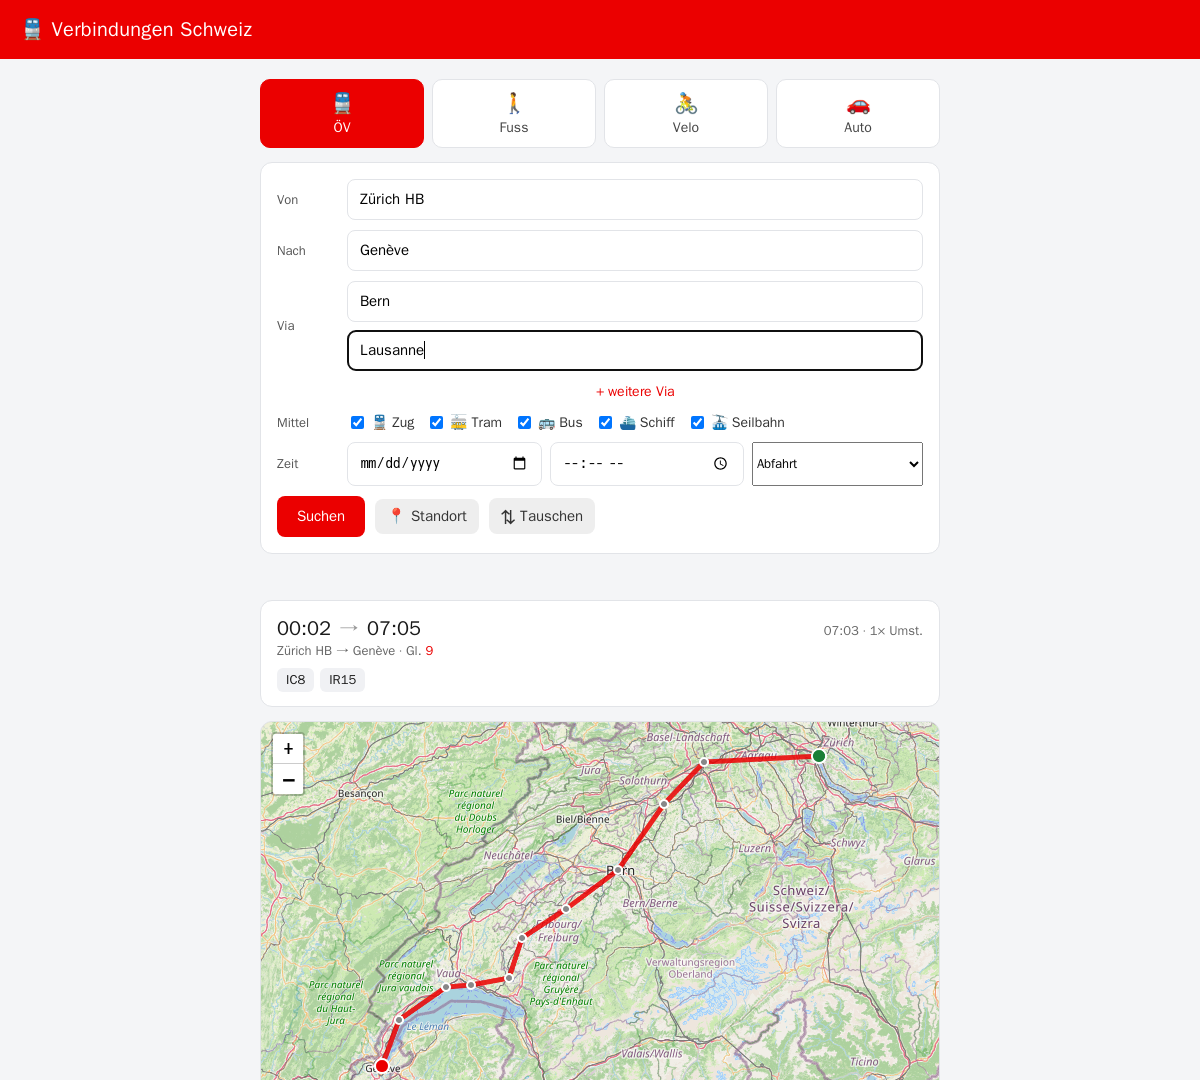
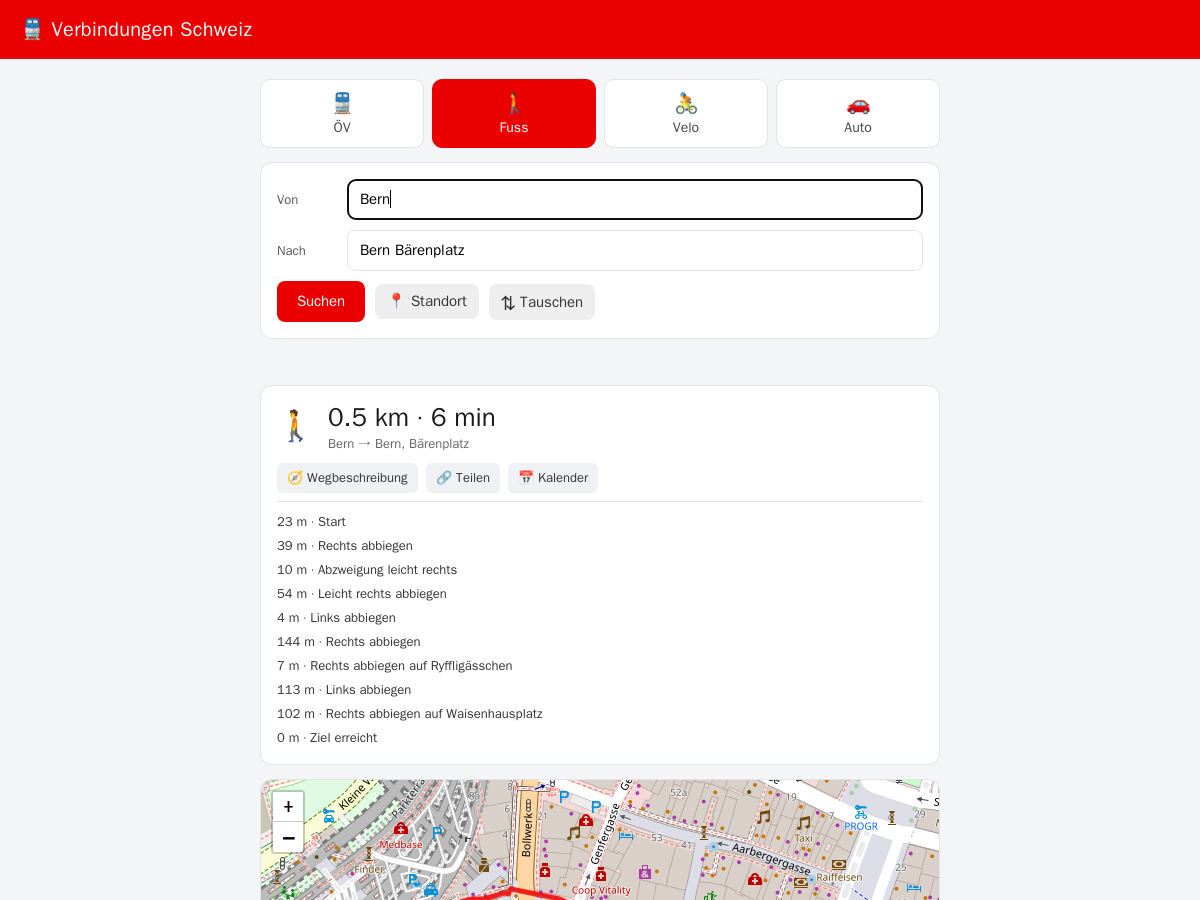
Update screenshot to show turn-by-turn directions

diff --git a/index.html b/index.html
@@ -257,7 +257,7 @@
     </div>
 
     <div class="card" id="sbb">
-      <div class="shot mid"><span class="port">:8444 · HTTPS</span><img src="shots/sbb.png" alt="Verbindungen Schweiz – ÖV-Verbindung Zürich–Genf als Plan auf der Karte"><span class="badge">Live-Ansicht</span></div>
+      <div class="shot mid"><span class="port">:8444 · HTTPS</span><img src="shots/sbb.png" alt="Verbindungen Schweiz – Fuss-Route mit Turn-by-turn-Wegbeschreibung und Karte"><span class="badge">Live-Ansicht</span></div>
       <div class="body">
         <h3>Verbindungen Schweiz</h3>
         <p>Ein Dienst, zwei Welten: öffentlicher Verkehr (SBB &amp; übriger CH-ÖV über die freie